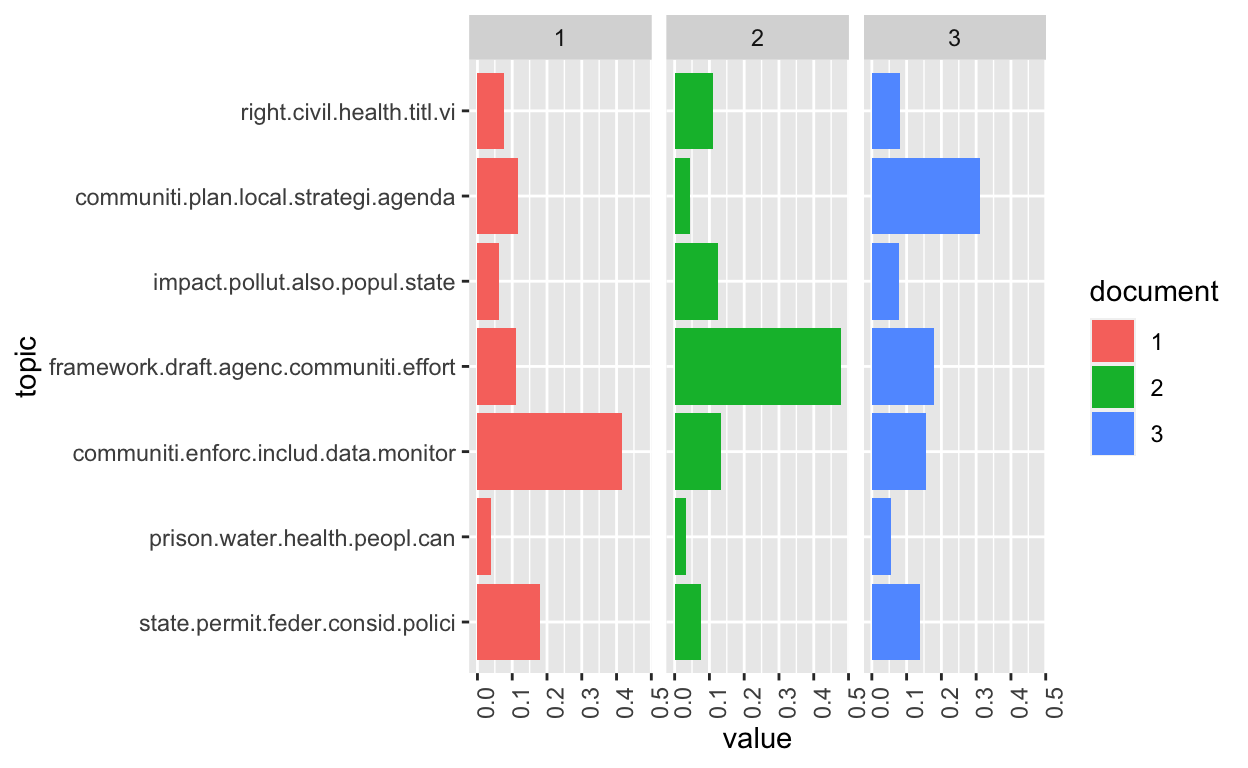
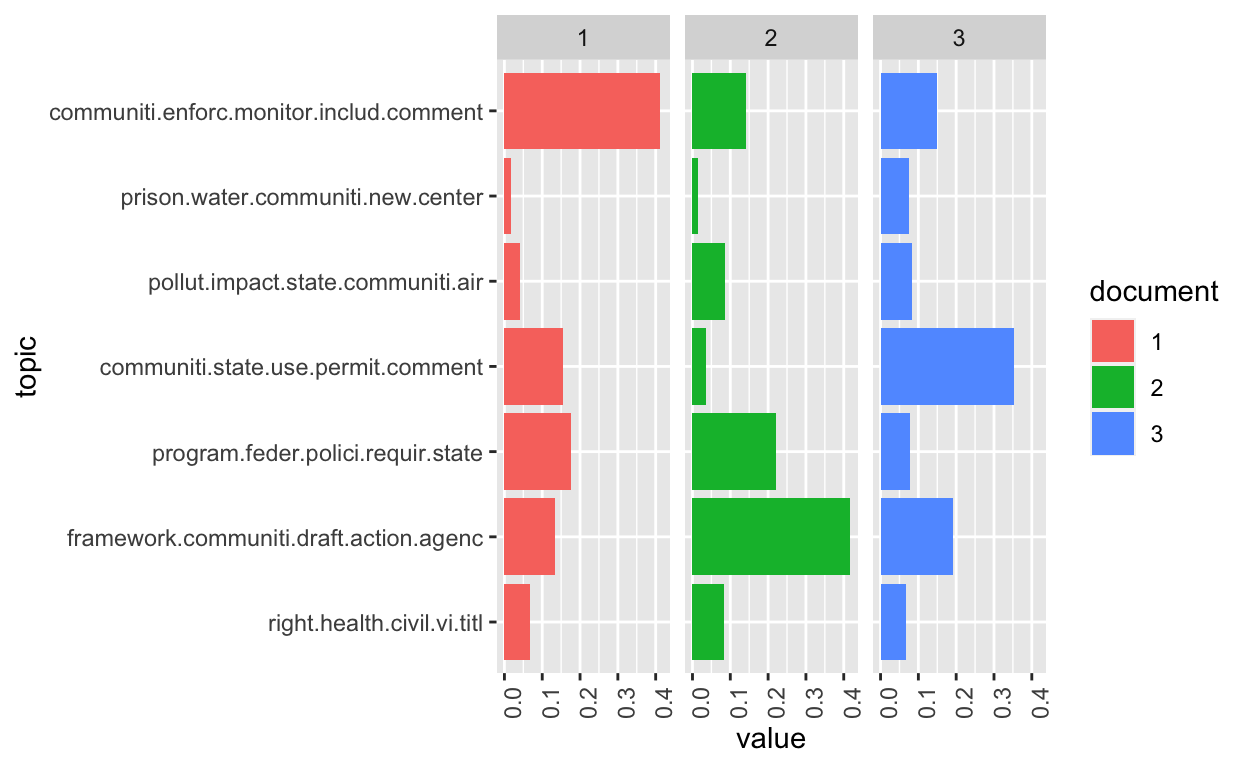
Fix link

diff --git a/docs/topic_6.html b/docs/topic_6.html
@@ -2694,28 +2694,28 @@ Gibbs sampling completed!</code></pre>
 <pre class="sourceCode r"><code class="sourceCode r"><span class='fu'><a href='https://rdrr.io/r/stats/terms.html'>terms</a></span><span class='op'>(</span><span class='va'>topicModel_k9</span>, <span class='fl'>10</span><span class='op'>)</span>
 </code></pre>
 </div>
-<pre><code>      Topic 1     Topic 2     Topic 3     Topic 4    Topic 5  
- [1,] &quot;peopl&quot;     &quot;communiti&quot; &quot;communiti&quot; &quot;prison&quot;   &quot;right&quot;  
- [2,] &quot;health&quot;    &quot;enforc&quot;    &quot;health&quot;    &quot;site&quot;     &quot;agenc&quot;  
- [3,] &quot;citi&quot;      &quot;comment&quot;   &quot;impact&quot;    &quot;juli&quot;     &quot;civil&quot;  
- [4,] &quot;park&quot;      &quot;air&quot;       &quot;rule&quot;      &quot;popul&quot;    &quot;titl&quot;   
- [5,] &quot;green&quot;     &quot;monitor&quot;   &quot;state&quot;     &quot;facil&quot;    &quot;vi&quot;     
- [6,] &quot;project&quot;   &quot;complianc&quot; &quot;popul&quot;     &quot;industri&quot; &quot;address&quot;
- [7,] &quot;communiti&quot; &quot;provid&quot;    &quot;also&quot;      &quot;center&quot;   &quot;includ&quot; 
- [8,] &quot;fund&quot;      &quot;action&quot;    &quot;air&quot;       &quot;sourc&quot;    &quot;plan&quot;   
- [9,] &quot;order&quot;     &quot;includ&quot;    &quot;pollut&quot;    &quot;project&quot;  &quot;issu&quot;   
-[10,] &quot;poor&quot;      &quot;requir&quot;    &quot;ejscreen&quot;  &quot;water&quot;    &quot;nation&quot; 
-      Topic 6      Topic 7    Topic 8     Topic 9    
- [1,] &quot;communiti&quot;  &quot;state&quot;    &quot;state&quot;     &quot;communiti&quot;
- [2,] &quot;pollut&quot;     &quot;permit&quot;   &quot;program&quot;   &quot;framework&quot;
- [3,] &quot;work&quot;       &quot;consid&quot;   &quot;draft&quot;     &quot;action&quot;   
- [4,] &quot;comment&quot;    &quot;feder&quot;    &quot;epa&quot;       &quot;agenda&quot;   
- [5,] &quot;farmwork&quot;   &quot;meet&quot;     &quot;framework&quot; &quot;develop&quot;  
- [6,] &quot;pesticid&quot;   &quot;air&quot;      &quot;agenc&quot;     &quot;local&quot;    
- [7,] &quot;use&quot;        &quot;grant&quot;    &quot;regul&quot;     &quot;effort&quot;   
- [8,] &quot;overburden&quot; &quot;like&quot;     &quot;will&quot;      &quot;comment&quot;  
- [9,] &quot;polici&quot;     &quot;opportun&quot; &quot;may&quot;       &quot;plan&quot;     
-[10,] &quot;protect&quot;    &quot;train&quot;    &quot;issu&quot;      &quot;tool&quot;     </code></pre>
+<pre><code>      Topic 1     Topic 2   Topic 3   Topic 4      Topic 5  
+ [1,] &quot;communiti&quot; &quot;state&quot;   &quot;prison&quot;  &quot;communiti&quot;  &quot;program&quot;
+ [2,] &quot;enforc&quot;    &quot;permit&quot;  &quot;facil&quot;   &quot;water&quot;      &quot;feder&quot;  
+ [3,] &quot;monitor&quot;   &quot;consid&quot;  &quot;peopl&quot;   &quot;comment&quot;    &quot;agenc&quot;  
+ [4,] &quot;air&quot;       &quot;use&quot;     &quot;sourc&quot;   &quot;polici&quot;     &quot;issu&quot;   
+ [5,] &quot;health&quot;    &quot;comment&quot; &quot;popul&quot;   &quot;clean&quot;      &quot;titl&quot;   
+ [6,] &quot;includ&quot;    &quot;air&quot;     &quot;work&quot;    &quot;econom&quot;     &quot;state&quot;  
+ [7,] &quot;comment&quot;   &quot;feder&quot;   &quot;sent&quot;    &quot;pollut&quot;     &quot;polici&quot; 
+ [8,] &quot;requir&quot;    &quot;organ&quot;   &quot;project&quot; &quot;new&quot;        &quot;vi&quot;     
+ [9,] &quot;complianc&quot; &quot;grant&quot;   &quot;one&quot;     &quot;overburden&quot; &quot;will&quot;   
+[10,] &quot;action&quot;    &quot;meet&quot;    &quot;center&quot;  &quot;energi&quot;     &quot;act&quot;    
+      Topic 6     Topic 7     Topic 8     Topic 9 
+ [1,] &quot;framework&quot; &quot;communiti&quot; &quot;communiti&quot; &quot;health&quot;
+ [2,] &quot;draft&quot;     &quot;plan&quot;      &quot;impact&quot;    &quot;right&quot; 
+ [3,] &quot;action&quot;    &quot;local&quot;     &quot;pollut&quot;    &quot;peopl&quot; 
+ [4,] &quot;communiti&quot; &quot;govern&quot;    &quot;state&quot;     &quot;citi&quot;  
+ [5,] &quot;effort&quot;    &quot;use&quot;       &quot;rule&quot;      &quot;park&quot;  
+ [6,] &quot;agenc&quot;     &quot;juli&quot;      &quot;health&quot;    &quot;civil&quot; 
+ [7,] &quot;develop&quot;   &quot;comment&quot;   &quot;also&quot;      &quot;nation&quot;
+ [8,] &quot;tool&quot;      &quot;particip&quot;  &quot;provid&quot;    &quot;law&quot;   
+ [9,] &quot;state&quot;     &quot;agenda&quot;    &quot;air&quot;       &quot;includ&quot;
+[10,] &quot;epa&quot;       &quot;strategi&quot;  &quot;popul&quot;     &quot;see&quot;   </code></pre>
 </div>
 <p>Some of those topics seem related to the cross-cutting and additional
 topics identified in the EPA’s response to the public comments:</p>
@@ -2789,28 +2789,28 @@ Gibbs sampling completed!</code></pre>
 <span class='fu'><a href='https://rdrr.io/r/stats/terms.html'>terms</a></span><span class='op'>(</span><span class='va'>topicModel_k7</span>, <span class='fl'>10</span><span class='op'>)</span>
 </code></pre>
 </div>
-<pre><code>      Topic 1     Topic 2   Topic 3     Topic 4     Topic 5    
- [1,] &quot;state&quot;     &quot;prison&quot;  &quot;communiti&quot; &quot;framework&quot; &quot;impact&quot;   
- [2,] &quot;permit&quot;    &quot;water&quot;   &quot;enforc&quot;    &quot;draft&quot;     &quot;pollut&quot;   
- [3,] &quot;feder&quot;     &quot;health&quot;  &quot;includ&quot;    &quot;agenc&quot;     &quot;also&quot;     
- [4,] &quot;consid&quot;    &quot;peopl&quot;   &quot;data&quot;      &quot;communiti&quot; &quot;popul&quot;    
- [5,] &quot;polici&quot;    &quot;can&quot;     &quot;monitor&quot;   &quot;effort&quot;    &quot;state&quot;    
- [6,] &quot;air&quot;       &quot;site&quot;    &quot;pollut&quot;    &quot;action&quot;    &quot;communiti&quot;
- [7,] &quot;implement&quot; &quot;project&quot; &quot;requir&quot;    &quot;develop&quot;   &quot;rule&quot;     
- [8,] &quot;requir&quot;    &quot;facil&quot;   &quot;action&quot;    &quot;program&quot;   &quot;guidanc&quot;  
- [9,] &quot;program&quot;   &quot;energi&quot;  &quot;comment&quot;   &quot;tool&quot;      &quot;health&quot;   
-[10,] &quot;meet&quot;      &quot;new&quot;     &quot;air&quot;       &quot;epa&quot;       &quot;agenc&quot;    
-      Topic 6     Topic 7 
- [1,] &quot;communiti&quot; &quot;right&quot; 
- [2,] &quot;plan&quot;      &quot;civil&quot; 
- [3,] &quot;local&quot;     &quot;health&quot;
- [4,] &quot;strategi&quot;  &quot;titl&quot;  
- [5,] &quot;agenda&quot;    &quot;vi&quot;    
- [6,] &quot;comment&quot;   &quot;agenc&quot; 
- [7,] &quot;use&quot;       &quot;peopl&quot; 
- [8,] &quot;govern&quot;    &quot;nation&quot;
- [9,] &quot;action&quot;    &quot;includ&quot;
-[10,] &quot;can&quot;       &quot;citi&quot;  </code></pre>
+<pre><code>      Topic 1     Topic 2     Topic 3   Topic 4     Topic 5    
+ [1,] &quot;right&quot;     &quot;framework&quot; &quot;program&quot; &quot;communiti&quot; &quot;pollut&quot;   
+ [2,] &quot;health&quot;    &quot;communiti&quot; &quot;feder&quot;   &quot;state&quot;     &quot;impact&quot;   
+ [3,] &quot;civil&quot;     &quot;draft&quot;     &quot;polici&quot;  &quot;use&quot;       &quot;state&quot;    
+ [4,] &quot;vi&quot;        &quot;action&quot;    &quot;requir&quot;  &quot;permit&quot;    &quot;communiti&quot;
+ [5,] &quot;titl&quot;      &quot;agenc&quot;     &quot;state&quot;   &quot;comment&quot;   &quot;air&quot;      
+ [6,] &quot;peopl&quot;     &quot;develop&quot;   &quot;will&quot;    &quot;like&quot;      &quot;rule&quot;     
+ [7,] &quot;practic&quot;   &quot;effort&quot;    &quot;comment&quot; &quot;consid&quot;    &quot;also&quot;     
+ [8,] &quot;communiti&quot; &quot;state&quot;     &quot;work&quot;    &quot;plan&quot;      &quot;health&quot;   
+ [9,] &quot;act&quot;       &quot;agenda&quot;    &quot;follow&quot;  &quot;resourc&quot;   &quot;popul&quot;    
+[10,] &quot;nation&quot;    &quot;epa&quot;       &quot;regul&quot;   &quot;mani&quot;      &quot;provid&quot;   
+      Topic 6     Topic 7    
+ [1,] &quot;prison&quot;    &quot;communiti&quot;
+ [2,] &quot;water&quot;     &quot;enforc&quot;   
+ [3,] &quot;communiti&quot; &quot;monitor&quot;  
+ [4,] &quot;new&quot;       &quot;includ&quot;   
+ [5,] &quot;center&quot;    &quot;comment&quot;  
+ [6,] &quot;site&quot;      &quot;data&quot;     
+ [7,] &quot;popul&quot;     &quot;air&quot;      
+ [8,] &quot;can&quot;       &quot;permit&quot;   
+ [9,] &quot;sourc&quot;     &quot;action&quot;   
+[10,] &quot;power&quot;     &quot;use&quot;      </code></pre>
 <div class="sourceCode">
 <pre class="sourceCode r"><code class="sourceCode r"><span class='va'>theta</span> <span class='op'>&lt;-</span> <span class='va'>tmResult</span><span class='op'>$</span><span class='va'>topics</span>
 <span class='va'>beta</span> <span class='op'>&lt;-</span> <span class='va'>tmResult</span><span class='op'>$</span><span class='va'>terms</span>
@@ -2819,9 +2819,8 @@ Gibbs sampling completed!</code></pre>
 </div>
 </div>
 <p>There are multiple proposed methods for how to measure the best k
-value. You can <a
-href="#multiple%20proposed%20methods%20for%20measuring%20the%20best%20k%20value.%20You%20can">go
-down the rabbit hole here</a></p>
+value. You can <a href="https://rpubs.com/siri/ldatuning">go down the
+rabbit hole here</a></p>
 <div class="layout-chunk" data-layout="l-body">
 <div class="sourceCode">
 <pre class="sourceCode r"><code class="sourceCode r"><span class='va'>comment_topics</span> <span class='op'>&lt;-</span> <span class='fu'><a href='https://generics.r-lib.org/reference/tidy.html'>tidy</a></span><span class='op'>(</span><span class='va'>topicModel_k7</span>, matrix <span class='op'>=</span> <span class='st'>"beta"</span><span class='op'>)</span>
@@ -2835,20 +2834,20 @@ down the rabbit hole here</a></p>
 <span class='va'>top_terms</span>
 </code></pre>
 </div>
-<pre><code># A tibble: 70 × 3
+<pre><code># A tibble: 72 × 3
    topic term        beta
    &lt;int&gt; &lt;chr&gt;      &lt;dbl&gt;
- 1     1 state     0.0378
- 2     1 permit    0.0285
- 3     1 feder     0.0217
- 4     1 consid    0.0168
- 5     1 polici    0.0154
- 6     1 air       0.0152
- 7     1 implement 0.0148
- 8     1 requir    0.0133
- 9     1 program   0.0127
-10     1 meet      0.0125
-# … with 60 more rows</code></pre>
+ 1     1 right     0.0287
+ 2     1 health    0.0252
+ 3     1 civil     0.0211
+ 4     1 vi        0.0196
+ 5     1 titl      0.0156
+ 6     1 peopl     0.0150
+ 7     1 practic   0.0124
+ 8     1 communiti 0.0117
+ 9     1 act       0.0113
+10     1 nation    0.0110
+# … with 62 more rows</code></pre>
 </div>
 <div class="layout-chunk" data-layout="l-body">
 <div class="sourceCode">
